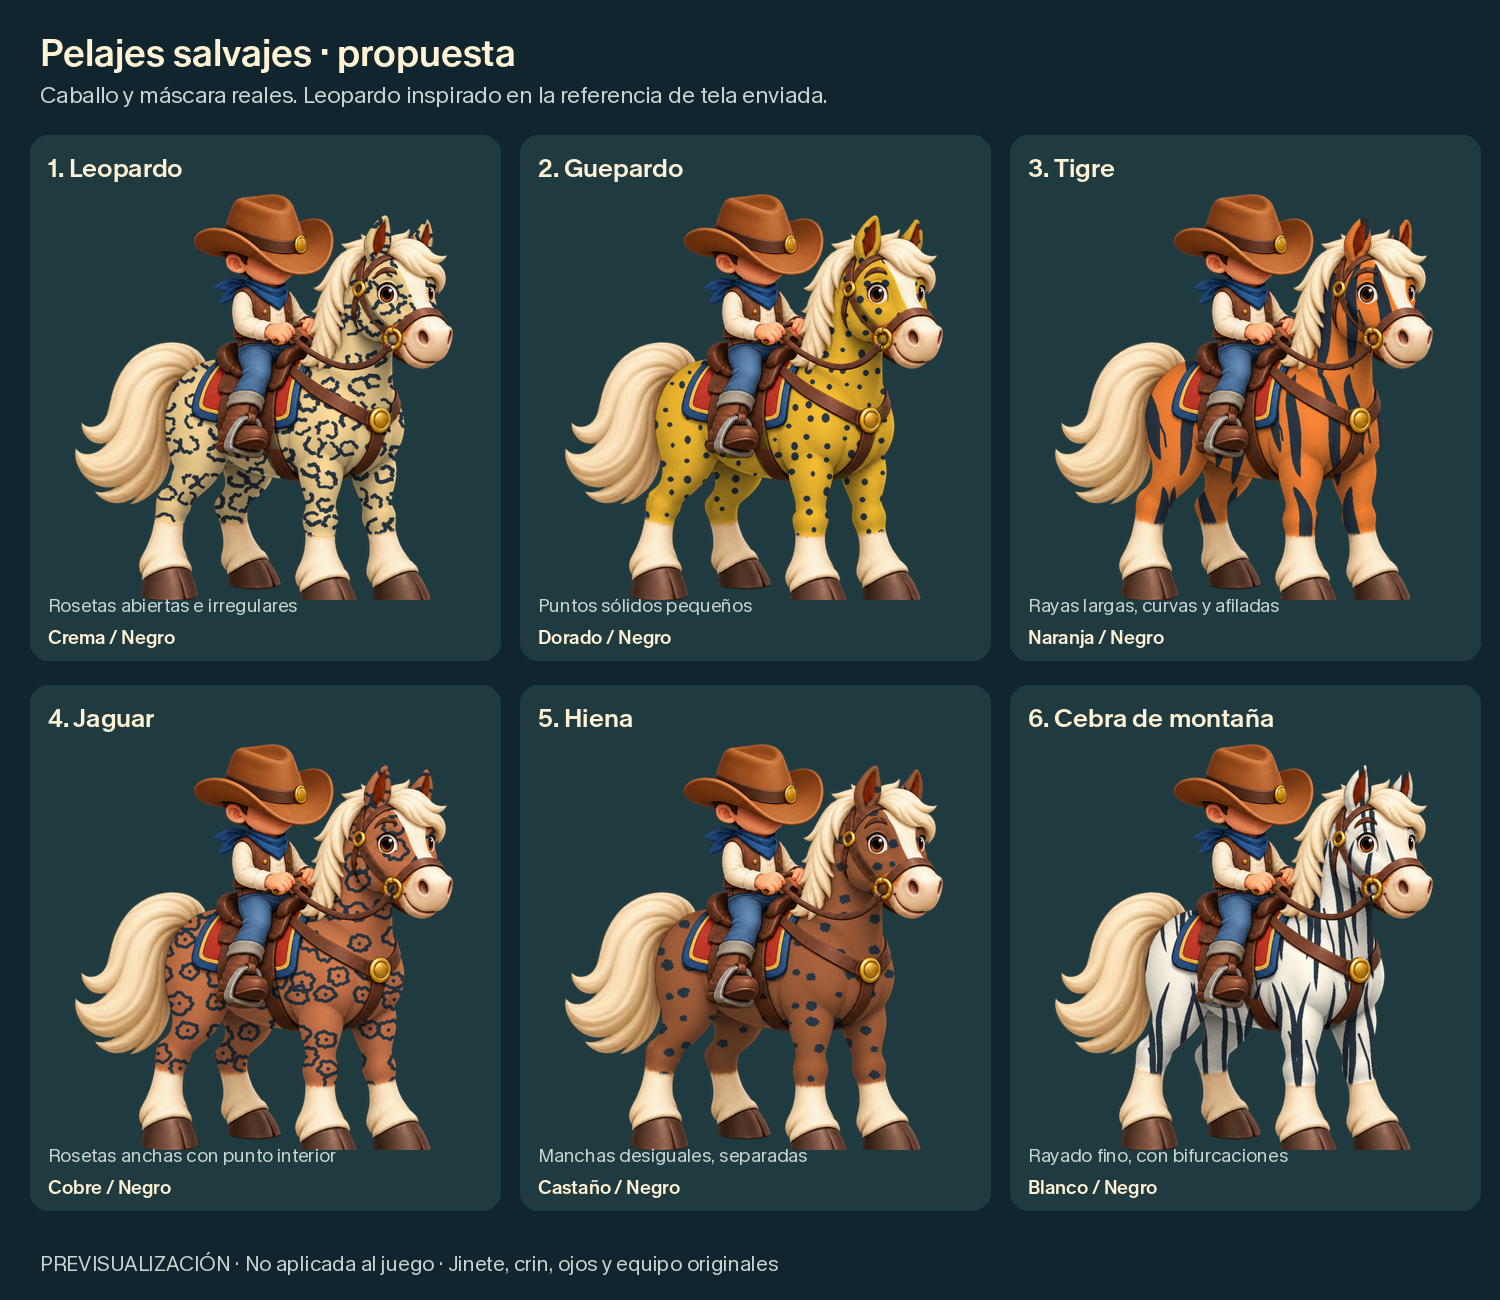
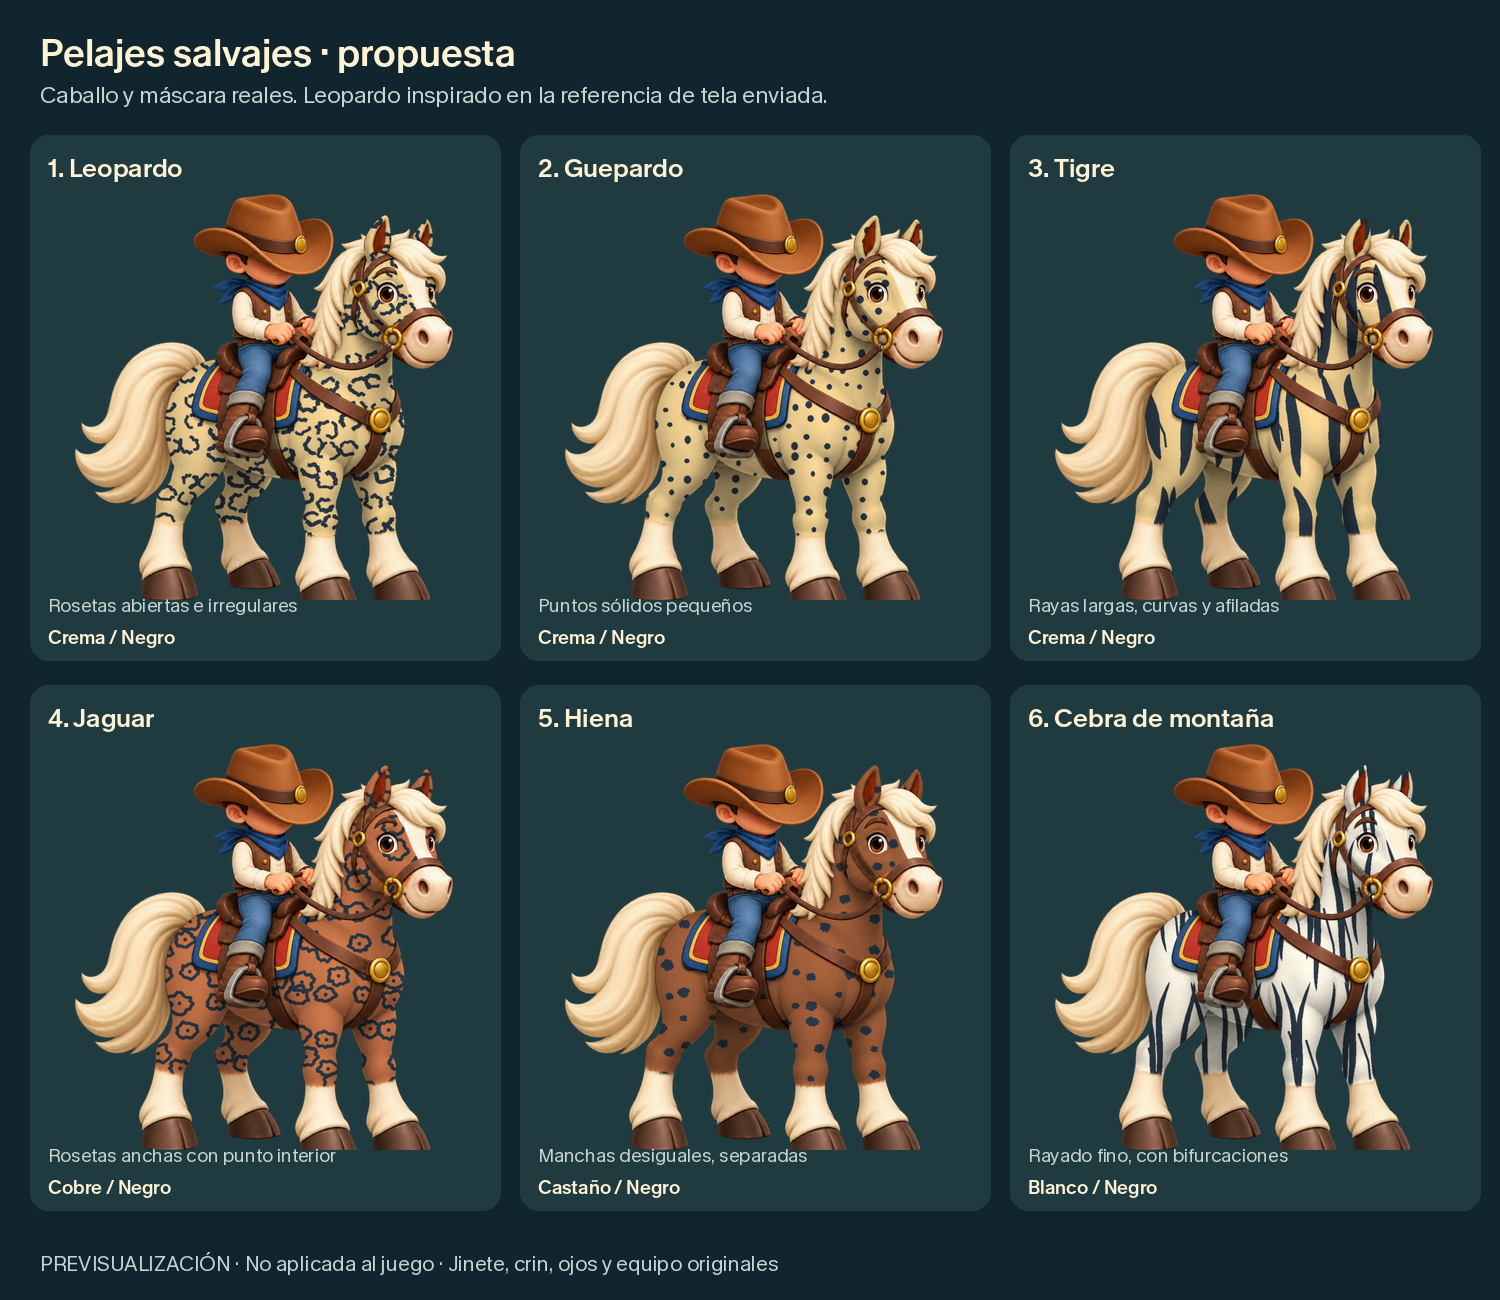
Use leopard cream base for natural cheetah and tiger examples

diff --git a/docs/pelajes238/INSTINTO_PROPUESTA.md b/docs/pelajes238/INSTINTO_PROPUESTA.md
@@ -8,7 +8,7 @@ Ant, 15 noviembre 2026, 13:27: quiere una propiedad oculta llamada Instinto. Un 
 
 - Primera familia: Tigre, Leopardo y Jaguar con instinto cazador de cerdos. Guepardo e Hiena podrían compartirlo, pero lo dejamos por confirmar en lugar de imponer que todos los animales cazadores funcionen igual. Cebra, Cebra de montaña, Jirafa y Vaca no reciben captura de cerdos; sus posibles instintos quedan sin definir.
 - Colores exactos: una receta de IDs, no detección de píxeles ni aproximación visual. Patrón + base plana + color plano de manchas. Arcoíris, Galaxy, oro, cristal o hielo no cumplen la receta mientras tapen el color requerido. Por confirmar si crin/cola, ojos, patas, emblemas o accesorios también deben contar. Recomiendo que no cuenten: no forman el patrón animal principal.
-- Recetas sugeridas desde la comparación: Leopardo Crema/Negro, Tigre Dorado/Negro, Jaguar Crema/Negro. Son propuestas de diseño, no afirmaciones de un único color real de cada especie. La aprobación de la lámina no activaría por sí sola esta mecánica.
+- Recetas sugeridas desde la comparación: Leopardo Crema/Negro, Tigre Crema/Negro, Jaguar Crema/Negro. Son propuestas de diseño, no afirmaciones de un único color real de cada especie. La aprobación de la lámina no activaría por sí sola esta mecánica.
 - Activación: primer contacto con un cerdo objetivo durante una misión de cerdo ya aceptada. Nada de capturar animales fuera de la misión ni usar cerdos de otros encargos.
 - Control: recomiendo impulso asistido, no quitar de repente el control. Indicador visual de objetivo; el jugador sigue dirigiendo y puede cancelar. Si Ant prefiere control automático, hace falta decidir duración, alcance y cómo abortar.
 - Captura: contacto real con el objetivo válido; se usa la misma transacción de misión, inventario y guardado que la captura normal. No atraviesa paredes, no captura a distancia, no consume lazo ni duplica recompensas.

diff --git a/docs/pelajes238/README.md b/docs/pelajes238/README.md
@@ -21,3 +21,7 @@ La cría copia estilo y color de cada rasgo desde el progenitor elegido. No aña
 Los sombreros anteriores v1/v2 y acabados 13/14 se conservan. Los nuevos patrones usan 20..25 dentro del formato de sombrero; v3 permite la base/tinta arcoíris. El armario sigue guardando el diseño para siempre una vez tenido el caballo, incluso tras venderlo.
 
 Imágenes de propuesta y comparación no prueban Android físico ni aparición aleatoria de cada combinación. Las recetas de Instinto aún no existen: elegir una paleta natural no desbloquea habilidades en esta versión.
+
+## Ajuste de paleta natural, 15 noviembre 2026, 16:32
+
+Ant confirma que se refería al color de base: Guepardo y Tigre usan Crema, como Leopardo, manteniendo respectivamente puntos y rayas. Las láminas naturales se han regenerado. Es una selección de ejemplo, no una restricción de colores ni un cambio de caballos existentes. El APK 2.7.168 ya permite estas combinaciones; no requiere 2.7.169.
